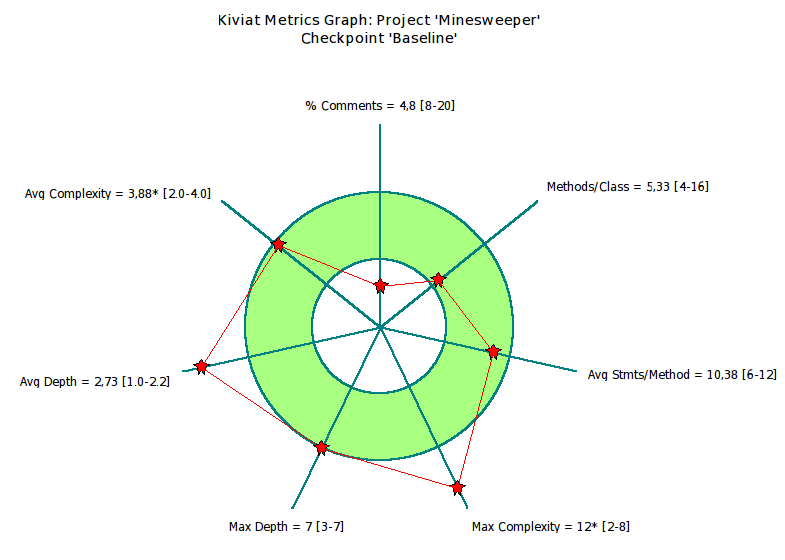
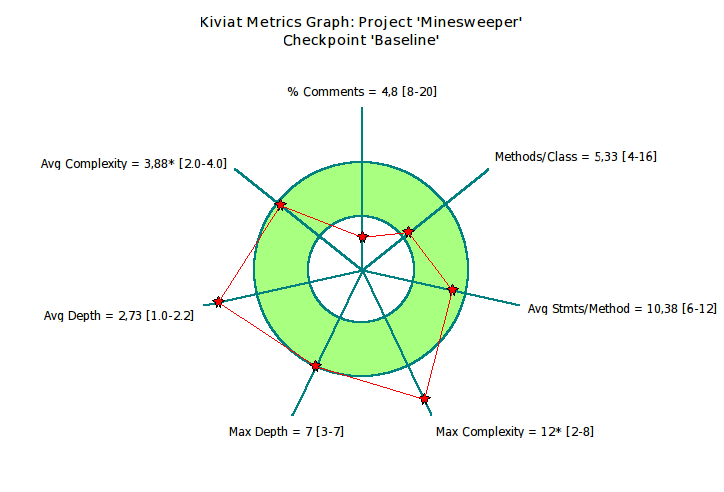
commit last changes..

diff --git a/report/report.tex b/report/report.tex
@@ -11,6 +11,8 @@
 \usepackage{subcaption}
 
 \urlstyle{sf}
+
+\usepackage{tikz,babel,textcomp,csquotes,pgf-umlsd,varioref,graphicx, float}
 \usepackage{babel}
 \usepackage{graphicx}
 \usepackage{ifikompendiumforside}
@@ -70,33 +72,23 @@ We have also used two factors that will help us analyse the testable parts.
 \textbf{Observability}: where this shows us the degree of possibility to observe the
 test results.
 \textbf{Understandability}: to check if the component is self-explaining. 
-\textbf{Usability}: 
 
-As non- functional testing tests the quality characteristics of the component,
-it would not make sense not to write a non-functional tests. 
-Though it covers the aspects of the product that may not relate to a specific
-function, it still tests the aspects like reliability, usability, portability
-and many more. As to the program that i have selected to this assignment, I
-would say to write a non-functional test. To ground the argument let us assume
-that a customer needs to include this game in his/ her casino house.
-The owner that’s going to buy the product needs to know  if the these type
-of tests has been performed.
+As the program was refactored in a way to be more easily developed further,
+being more flexible in game setups and also had funcionality for setting
+our own seed value to get predictable results, we could also implement
+tests to simulate whole games as the minefield would be predictable.
+This would provide us with \textbf{White-box testing} in the form of
+\textbf{Regression testing} that could immediaely discover when any game
+logic/behavior were to unintentionally change underways.
 
-\subsection{Non-functional tests}
+\subsubsection{Non-functional tests}
+Writing non-functional test for this program wouldn't make much sense as
+neither security, performance or stress testing is of any elevance as only
+one player may play at a time.
 
-\subsubsection{Performance, load and stress}
+\subsubsection{Test cases}
+\includegraphics[width=15cm,height=12cm]{test-cases.png}
 
-\subsubsection{Reliability}
-
-\subsubsection{Usability}
-
-\subsubsection{Efficiency}
-
-\subsubsection{Maintainability}
-
-\subsubsection{Portability}
-
-\subsection{Test cases}
 
 \section{Requirement 2}
 
@@ -114,6 +106,7 @@ in SourceMonitor triggered by the initialization of arrays in the MineField()
 constructor that broke the metrics reported for this file. In order to work
 around this bug the relevant code was moved into a separate function called by
 the constructor.
+
 
 \includegraphics[height=12cm]{project-metrics-summary-original.png}
 
@@ -240,32 +233,46 @@ In order to improve the metrics, many statements should be moved out into
 separate functions. This would reduce the average number of statements per
 method, while also reducing the complexity due to so many conditional
 statements existing in one function.
+The unnecessary use of blocks together with conditional statements also leads
+to the depth of the function being unreasonably high.
+Most of the braces used to create blocks can simply be removed.
 Also despite how the comments metric indicated that the commenting was at an
 ideal level, the metric severly misrepresented the actual situation as all
 the comments in the file turned out to simply be commented out code that
 should be removed, rather than actually having an ideal level of comments
 as first being given impression by.
-The unnecessary use of blocks together with conditional statements also leads
-to the depth of the function being unreasonably high.
-Most of the braces used to create blocks can simply be removed.
+The removal of the comments will however leave file without any comments at
+all will however leave file without any comments at all. Despite of this
+it's still importan to not start adding comments for ie. describing every
+method or to explain code that doesn't need explaining just in order to
+meet metric goals.
+Code should in general be written in such a self-explanatoy way that adding
+comments to explain it shouldn't be needed.
+After refactoring the class, the only comments left in this file ended up
+being api documenation for what would become a newly implemented Minesweeper()
+constructor and a public non-static start function().
+Private functions not exported through the API and that's easy enough to
+understand how works and the purpose of has not been commented due to lack
+of need fo.
 
 \section{Requirement 3}
-\includegraphics[height=8cm]{project-metrics-summary-final.png}
 
+\subsection{Metrics needed to improve}
+From the project level metrics, as illustrated by the Kiviat graph earlier,
+the lack of comments, average depth and complexity are metrics are methods
+that we need to improve.
 
-\section{TODO notes}
-Mention added possibility of setting seed value that would be very useful for
-testing the game with predictable values generated by PRNG to compare results
-against.
+ not really documented either, but includes code disabled by being
+commented out. This metrics looks fine, but after removing the disabled code, no
+comments remain.
 
-
-Mention the importance of providing API doc comments for public methods in
-relation to comments metrics.
-
-
-Comment on static methods misrepresenting impact on metrics.
-
-Explain: Most of Minesweeper class remains static despite of being rewritten
+\subsection{Changes: Minesweeper.java} First of the file Minesweeper.java has a
+lot of unnecessary indentations, which give higher average depth for no use. For
+example this part:
+\lstinputlisting[language=Java]{code/Minesweeper-object.java}
+Minesweeper has been rewritten as a proper object oriented class, improving
+readability and the program flow.
+Most of Minesweeper class remains static despite of being rewritten
 as an object oriented class, while start() is the only non-static and public
 function of the class. This is due to motivation for rewriting it as object
 oriented class has been for easier maintenance of the code without the intent
@@ -273,15 +280,73 @@ of multiple instantions of. The start() function has been made public in order
 for instantion in different classes, ie. a separate class for testing rather
 than using/playing the program with a specific seed value for PRNG set or
 other any other debug/testing functionality.
-Also as support for defining custom number of rows and colons has been added
+Also as support for defining custom number of rows and colons has beenee added
 to the MineField class, other classes with different values for would be
 made possible.
 
-Explain: Support for specifying number of rows and colons in MineField class
-has been implemented with future maintenance \& development in mind.
+Changes such as reducing duplicated statements has been made to better reuse
+code and to ensure that where the same code \& behaviour was duplicated earlier,
+the same behaviour is now guaranteed and now maintained in just one place like
+as with the init() function. According to the metrics as read by the kiviat
+graph, this may not look like a good thing with ie. average statemens per
+method actually gets below what's considered as ideal and that the number of
+function calls gets increased. Yet knowing that the funcion is static to the
+class, this issue will be opimized away as the code will be inlined.
 
-Mention shortcomings of sourcemonitor counting api documentation as regular
-comments, whereas a separate metric for constructors \& public funcions would
-be valuable.
+\lstinputlisting[language=Java]{code/Minesweeper-simplify.java}
+In the code snippet gameContinue() has been trimmed down to just a
+fragment of the size, with everything involving handling of user input
+having been split out of and moved to the evalInput() function where a
+much more easily readable switch/case (lowering the complexiy metric) takes
+care of the input string parsing (with the exception of the reading/passing
+of user input from gameContinue() with the necessary conversaion of string
+to lower case taking place while being passed as argument, otherwise the
+code will regress due to switch/case<string comparision being case sensitive).
+The code for dealing with probing of mines/moves has also been moved to a method
+of it's own where the excessive (and pointless) use of code blocks has been
+addressed, resulting in max \& average depth having been reduced from 6 \% 2.70
+to 4 \& 2.12.
+
+\subsubsection{File metric changes for Minesweeper.java}
+
+\begin{figure}[h]
+	\begin{subfigure}[b]{0.5\textwidth}
+		\caption{Original metrics from Kiviat graph of Minesweeper.java before refactoring}
+		\includegraphics[width=\textwidth]{Minesweeper_java-kiviat-metrics-graph-original.png}
+		\label{minesweeper.java_original}
+	\end{subfigure}
+	\begin{subfigure}[b]{0.5\textwidth}
+		\caption{New metrics from Kiviat graph of Minesweeper.java after refactoring}
+		\includegraphics[width=\textwidth]{Minesweeper_java-kiviat-metrics-graph-final.png}
+		\label{minesweeper.java_final}
+	\end{subfigure}
+\end{figure}
+
+Figure \ref{minesweeper.java_final} shows that the metrics are all within their
+ideal ranges and clearly improves over the original
+\ref{minesweepe.java_original}, with the exception of average statements and
+complexity being slightly below, which as clarified above is due to not
+blindly adhering to ideal metrics, where by own knowledge of language beaviour
+and valuing benefits from code reusability in terms of maintenance gains.
+
+\subsubsection{Project level metric changes}
+
+\begin{figure}[h]
+	\begin{subfigure}[b]{0.5\textwidth}
+		\caption{Original metrics from kiviat graph of the whole project before refactoring}
+		\includegraphics[width=\textwidth]{project-kiviat-metrics-graph-original.png}
+		\label{project_original}
+	\end{subfigure}
+	\begin{subfigure}[b]{0.5\textwidth}
+		\caption{New metrics from kiviat graph of the whole project after refactoring}
+		\includegraphics[width=\textwidth]{project-kiviat-metrics-graph-final.png}
+		\label{project_final}
+	\end{subfigure}
+\end{figure}
+
+Figure \ref{project_final} shows that for the whole project as well, the same
+goals of ideal metrics was succesfull with it being quite consisten with the
+file specific metrics above.
+
 
 \end{document}
